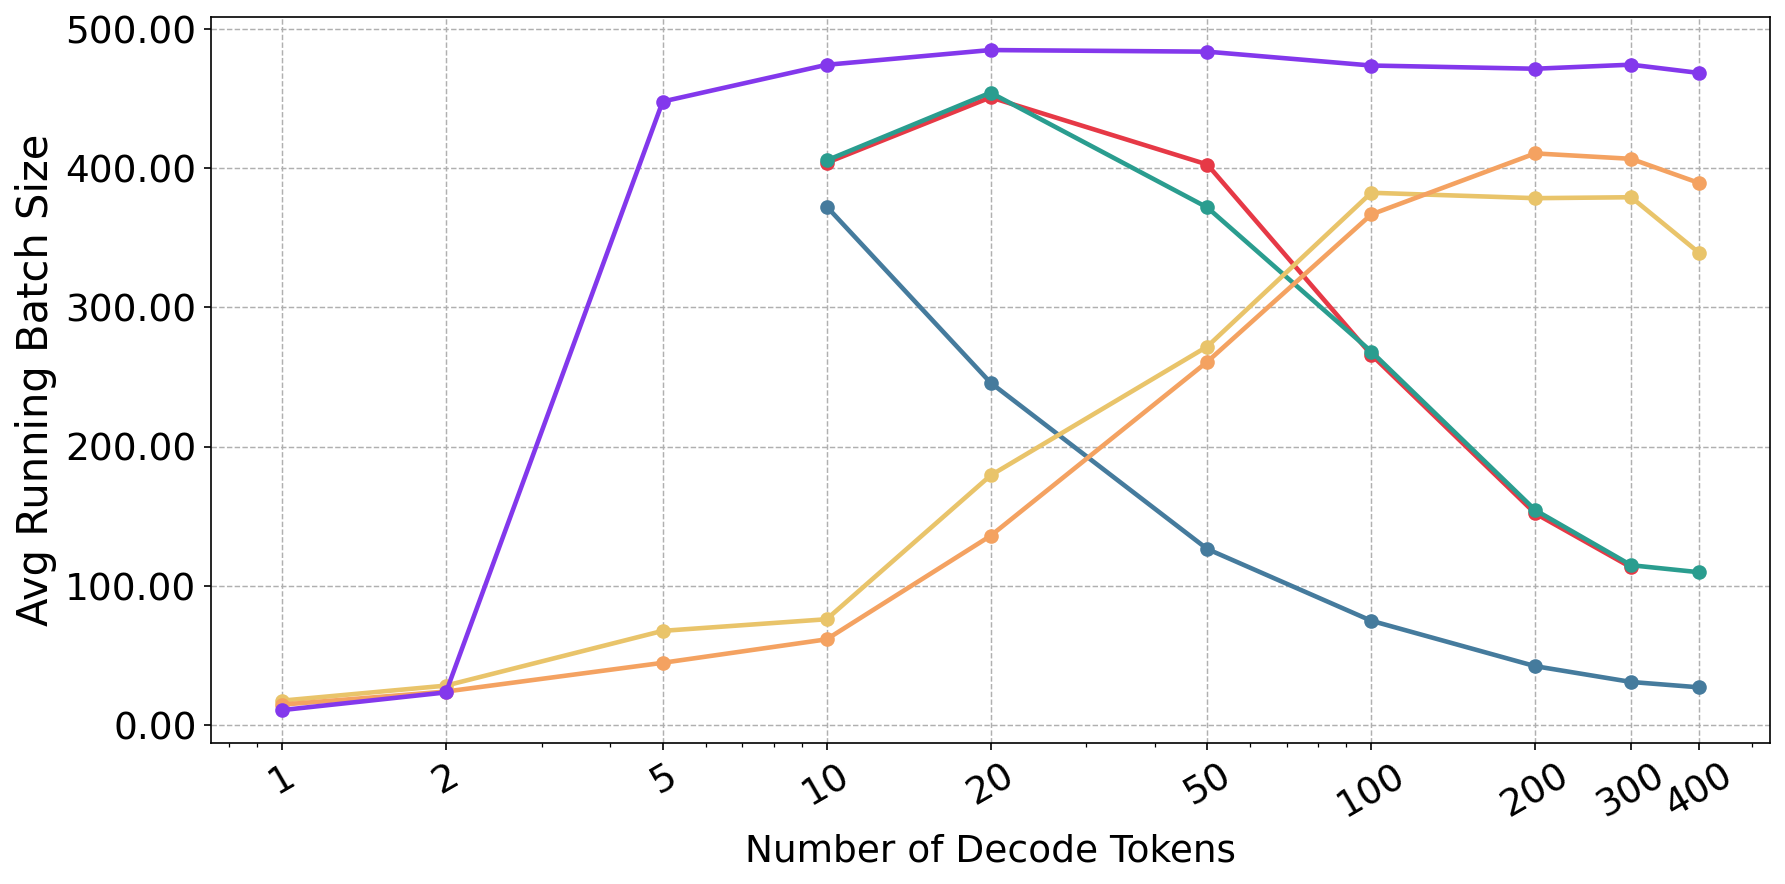
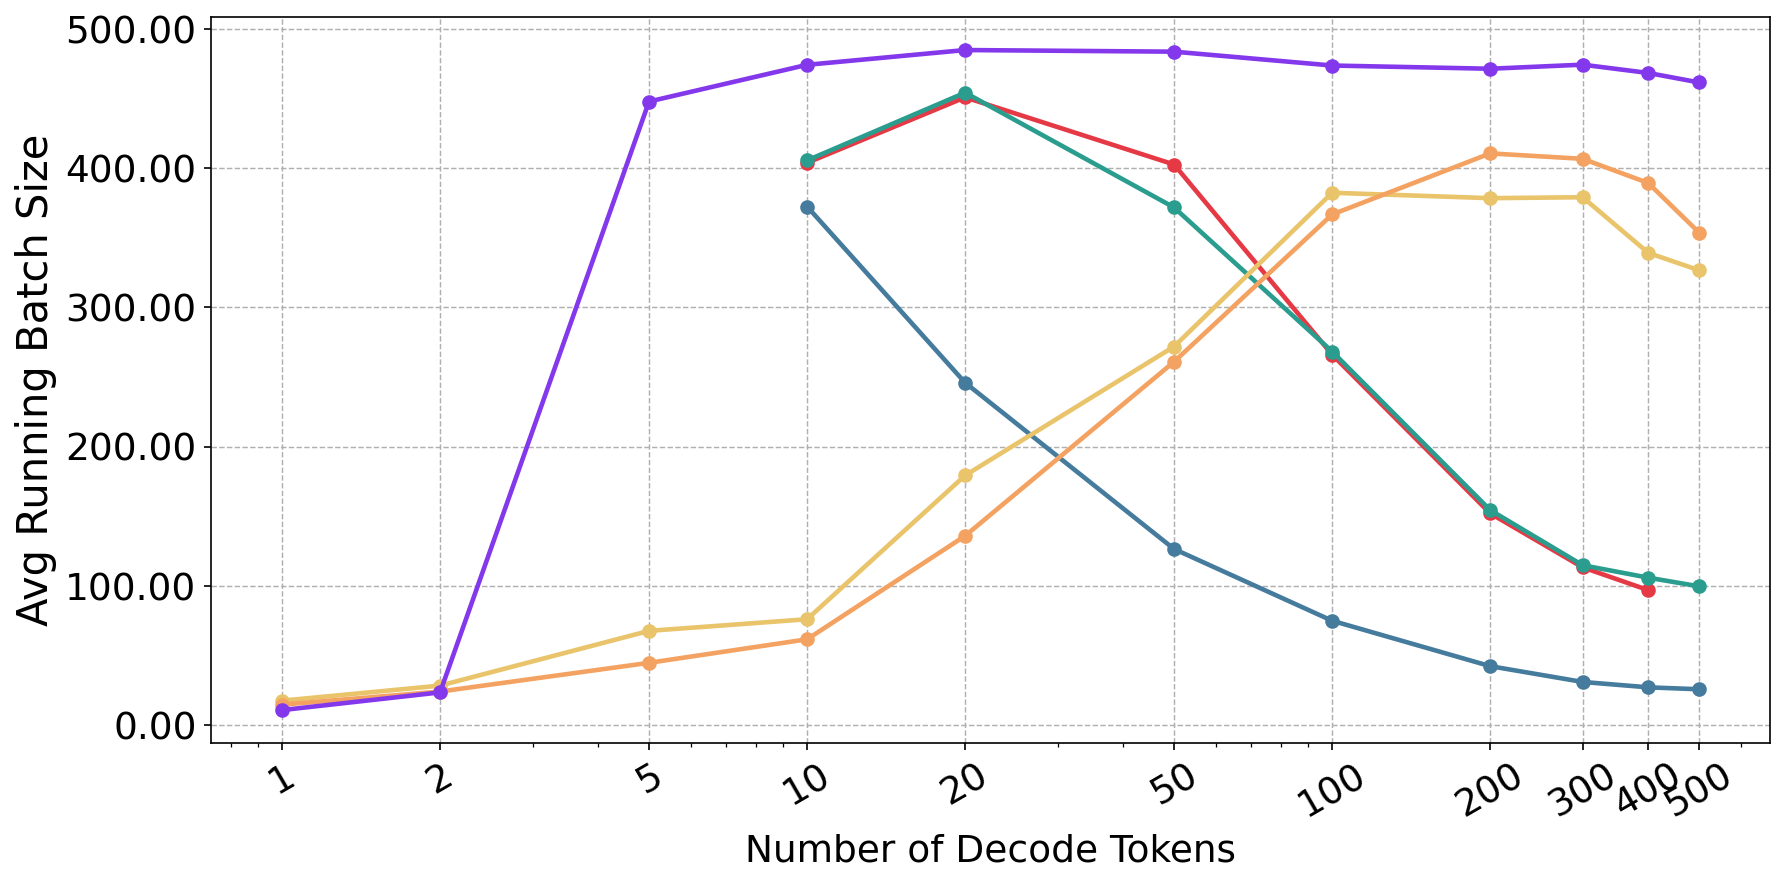
tp vs shared prefixes

diff --git a/code/vllm/sys_prompt_tokens_logs/plot.py b/code/vllm/sys_prompt_tokens_logs/plot.py
@@ -1,0 +1,174 @@
+#!/usr/bin/env python3
+"""
+Parse req_per_sec_logs/ and generate 3 plots:
+  1. Throughput vs RPS
+  2. Avg Running Batch Size vs RPS
+  3. Avg Consecutive Time Difference vs RPS
+"""
+
+import os
+import re
+import glob
+from collections import defaultdict
+import matplotlib
+matplotlib.use('Agg')
+import matplotlib.pyplot as plt
+import matplotlib.ticker as ticker
+import numpy as np
+
+LOG_DIR = os.path.expanduser("~/CS496/code/vllm/sys_prompt_tokens_logs/")
+
+# ── Regex patterns ──────────────────────────────────────────────────────────
+RE_SCHEDULER = re.compile(
+    r"Scheduler stats;.*?running batch size:\s*(\d+),.*?current time:\s*([\d.]+)"
+)
+RE_VLLM_THROUGHPUT = re.compile(
+    r"Throughput Test.*?:\s*([\d.]+)\s*$"
+)
+RE_SGLANG_THROUGHPUT = re.compile(
+    r"Throughput:\s*([\d.]+)\s*toks/s"
+)
+
+RE_FILENAME = re.compile(
+    r"^(?P<engine>vllm|sglang)_(?P<policy>.*?)_req.*?sys(?P<tok>\d+)_(\d+)_(\d+).log"
+)
+
+def parse_filename(fname):
+    m = RE_FILENAME.match(os.path.basename(fname))
+    if not m:
+        return None
+    return m.group("engine"), m.group("policy"), int(m.group("tok"))
+
+def parse_log(path):
+    batch_sizes = []
+    timestamps  = []
+    throughput  = None
+
+    with open(path, "r", errors="replace") as f:
+        for line in f:
+            m = RE_SCHEDULER.search(line)
+            if m:
+                batch_sizes.append(int(m.group(1)))
+                timestamps.append(float(m.group(2)))
+                continue
+
+            m = RE_VLLM_THROUGHPUT.search(line)
+            if m:
+                throughput = float(m.group(1))
+                continue
+
+            m = RE_SGLANG_THROUGHPUT.search(line)
+            if m:
+                throughput = float(m.group(1))
+
+    avg_batch = np.mean(batch_sizes) if batch_sizes else None
+
+    if len(timestamps) >= 2:
+        diffs = np.diff(sorted(timestamps))
+        avg_diff = np.mean(diffs)
+    else:
+        avg_diff = None
+
+    return avg_batch, avg_diff, throughput
+
+# ── Collect data ────────────────────────────────────────────────────────────
+# data[policy][rps] = {throughput, avg_batch, avg_diff}
+data = defaultdict(lambda: defaultdict(dict))
+
+log_files = sorted(glob.glob(os.path.join(LOG_DIR, "*.log")))
+print(f"Found {len(log_files)} log files")
+
+for path in log_files:
+    parsed = parse_filename(path)
+    if parsed is None:
+        print(f"  SKIP (unrecognised name): {os.path.basename(path)}")
+        continue
+    engine, policy, rps = parsed
+    label = f"{engine}_{policy}"
+
+    avg_batch, avg_diff, throughput = parse_log(path)
+    print(f"  {label:45s} rps={rps:4d}  "
+          f"tput={throughput}  batch={avg_batch}  "
+          f"dt={avg_diff}")
+
+    data[label][rps] = dict(throughput=throughput,
+                            avg_batch=avg_batch,
+                            avg_diff=avg_diff)
+
+# ── Plotting helpers ─────────────────────────────────────────────────────────
+PALETTE = [
+    "#E63946", "#457B9D", "#2A9D8F", "#E9C46A",
+    "#F4A261", "#8338EC", "#06D6A0", "#FB5607",
+    "#3A86FF", "#FF006E",
+]
+
+all_tokens = sorted({tok for policy in data.values() for tok in policy})
+
+def make_plot(metric_key, ylabel, title, outpath):
+    fig, ax = plt.subplots(figsize=(12, 6))
+
+    color_cycle = iter(PALETTE)
+    policies = sorted(data.keys())
+
+    for label in policies:
+        color = next(color_cycle)
+        xs, ys = [], []
+
+        for tok in all_tokens:
+            v = data[label].get(tok, {}).get(metric_key)
+
+            if v is not None and isinstance(v, float):
+                v = round(v, 4)
+
+            xs.append(tok)
+            ys.append(v if v is not None else np.nan)
+
+        ax.plot(xs, ys, marker="o", linewidth=2.2,
+                markersize=6, color=color, label=label)
+
+    ax.set_xscale("log")
+    ax.set_xlabel("Number of Shared Prefix Tokens", fontsize=18)
+    ax.set_ylabel(ylabel, fontsize=20)
+
+    # dynamic ticks
+    ax.set_xticks(all_tokens)
+    ax.set_xticklabels(all_tokens, rotation=30)
+    ax.get_xaxis().set_major_formatter(ticker.ScalarFormatter())
+
+    # proper tick formatting
+    ax.tick_params(axis="both", labelsize=18)
+    ax.yaxis.set_major_formatter(ticker.FormatStrFormatter('%.2f'))
+
+    if metric_key == "throughput":
+        ax.legend(fontsize=15, framealpha=0.3, ncol=1)
+
+    ax.grid(True, linewidth=0.7, linestyle="--")
+
+    plt.tight_layout()
+    fig.savefig(outpath, dpi=150,
+                bbox_inches="tight",
+                facecolor=fig.get_facecolor())
+    plt.close(fig)
+
+    print(f"Saved: {outpath}")
+
+# ── Generate plots ──────────────────────────────────────────────────────────
+OUT = os.path.expanduser("../../../results/sys_prompt_tokens_plots")
+os.makedirs(OUT, exist_ok=True)
+
+make_plot("throughput",
+          "Throughput (toks/s)",
+          "Throughput vs Request Rate",
+          os.path.join(OUT, "throughput_vs_tok.png"))
+
+make_plot("avg_batch",
+          "Avg Running Batch Size",
+          "Average Running Batch Size vs Request Rate",
+          os.path.join(OUT, "avg_batch_vs_tok.png"))
+
+make_plot("avg_diff",
+          "Time Between Tokens",
+          "Average Consecutive Scheduler Timestamp Diff vs Request Rate",
+          os.path.join(OUT, "avg_timediff_vs_tok.png"))
+
+print("\nDone! Plots written to:", OUT)
